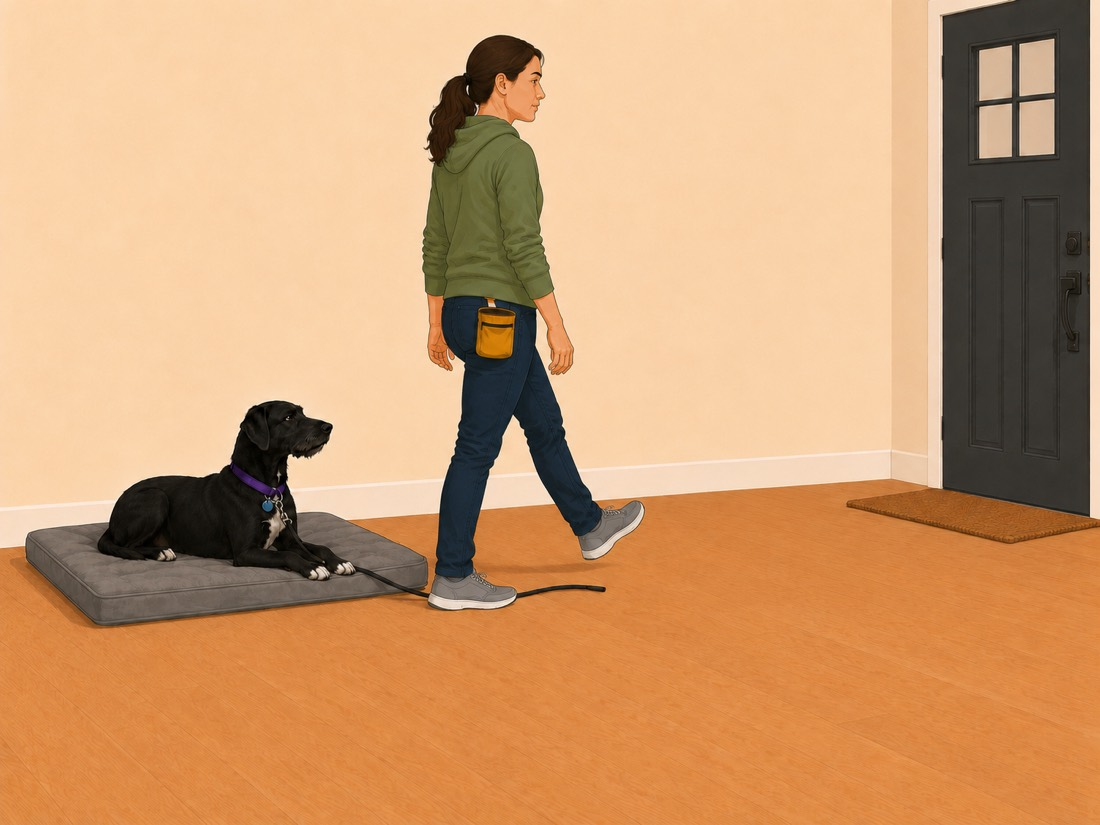
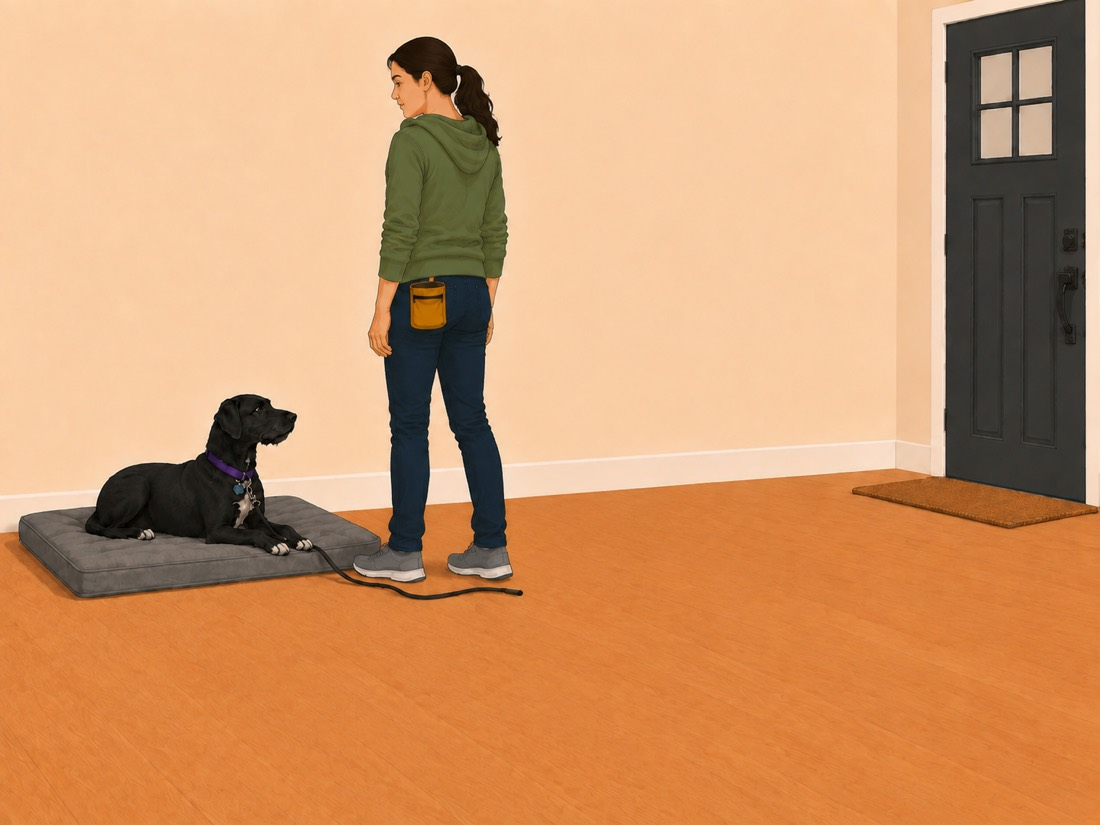
Stand her still beside the bed, and let the ladder read in order
The one-step image failed the pilot 4/4 as "walking away toward the door",
which is another activity's picture. The amended brief gave her a reference to
be near — trailing foot level with the bed's edge, the bed at her heel — and
ruled out the profile mid-stride silhouette that belongs to the next rung.

Checked by viewers who had not seen the first attempt: "the person has taken
only one small step away from the dog's bed — she's standing right beside it, a
modest one-step distance, not across the room". That is the amended claim in a
stranger's words. Shown all three rungs and asked to order them by distance
moved, a third viewer got it right and called this one unmistakable at a glance.

Both of the pilot's failures are now fixed, which makes Block A worth paying a
panel for — the only question the dry run was ever able to answer.

Two things recorded rather than smoothed over. Pair P2 is still the closest call
in Block B but it is a different pair now: with this image fixed, the hard one
is halfway against cross, which share a crop and a background and differ only in
distance and pose. The viewer separated them when asked, so it is a near-miss
rather than a failure, and it earns its place in the block.

And the dog's gaze drifted. She now looks past the handler toward the door where
the brief asks for eyes on her, which is a cousin of the defect §5 recorded
against fd-01. It does not touch this image's claim — how little the person has
[…]

Changed region(s): [[0.0, 0.0, 1.0, 0.7879]]

diff --git a/js/version.js b/js/version.js
@@ -10,7 +10,7 @@
  * The 1.12 lineage continues the old hand-bumped cache names, which reached
  * lucy-learns-v11 before this file existed.
  */
-export const APP_VERSION = '1.62.0';
+export const APP_VERSION = '1.63.0';
 
 /**
  * The day this build went out, shown under the version on the splash.

diff --git a/docs/comprehension-pilot.md b/docs/comprehension-pilot.md
@@ -116,8 +116,37 @@ open hands as an invitation without prompting. The departure was bought at a
 little cost to the invitation. Not enough to reject, worth watching in the
 panel.
 
-### `door-stay-03-onestep` — outstanding
+### `door-stay-03-onestep` — fixed and installed at 1.63.0
 
-Brief amended, not yet redrawn. Pair **P2** in Block B (`door-stay-03-cross` vs
-`door-stay-03-halfway`) should be expected to fail until it is: three images
-currently read as the same picture of a person walking toward a door.
+Redrawn against both the amended brief and the amended claim. Checked blind,
+three viewers, none of whom had seen the first attempt:
+
+- *"The person has taken only one small step away from the dog's bed — she's
+  standing right beside/just in front of it… a modest, one-step distance, not
+  across the room."* That is the amended claim, in a stranger's words.
+- *"A woman stands…"* — the "walking away toward the door" reading that failed
+  4/4 is gone.
+- Shown all three rungs of the ladder and asked to order them by distance
+  moved, a third viewer got it right and called this one *"unmistakable at a
+  glance"*.
+
+Two things recorded rather than smoothed over.
+
+**Pair P2 is still the closest call, but it is a different pair now.** With this
+image fixed, the viewer named `door-stay-03-halfway` vs `door-stay-03-cross` as
+the hard one: *"same crop, framing, and background… the only real
+differentiators are distance and pose."* They separated them correctly when
+asked, so it is a near-miss rather than a failure — but P2 earns its place in
+Block B and should go to a panel.
+
+**A small regression in the dog.** Her gaze is now ambiguous — *"looking off to
+the side/toward the door rather than at the woman"* — where the brief asks for
+eyes on the handler. It does not touch this image's claim, which is about how
+little the person has moved, so it was not worth a fourth generation. If this
+one is ever redrawn again, fix the gaze at the same time.
+
+## Where Block A stands
+
+Eight images, two redrawn, all eight now passing their claim under blind check.
+Worth putting in front of a paid panel — which is the only question this dry run
+was ever able to answer.
